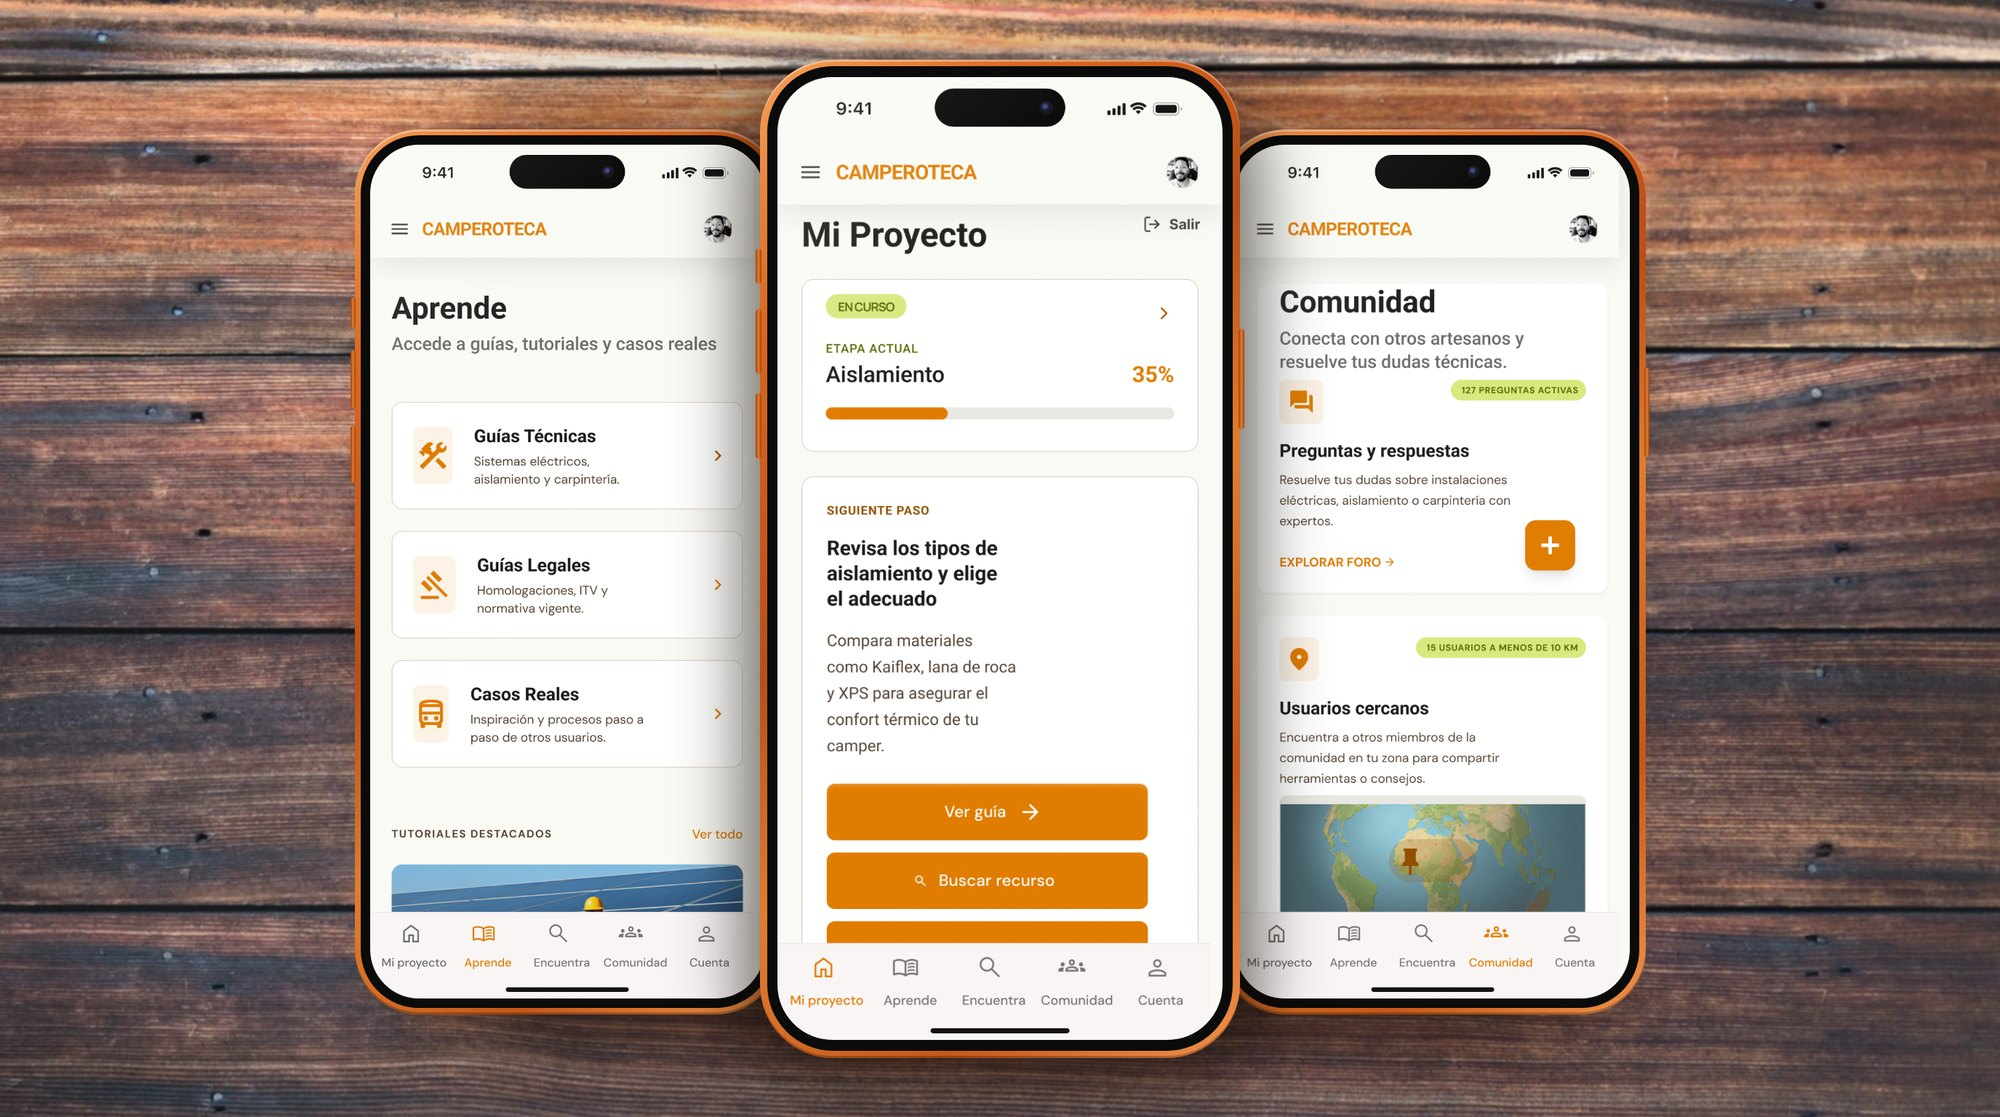
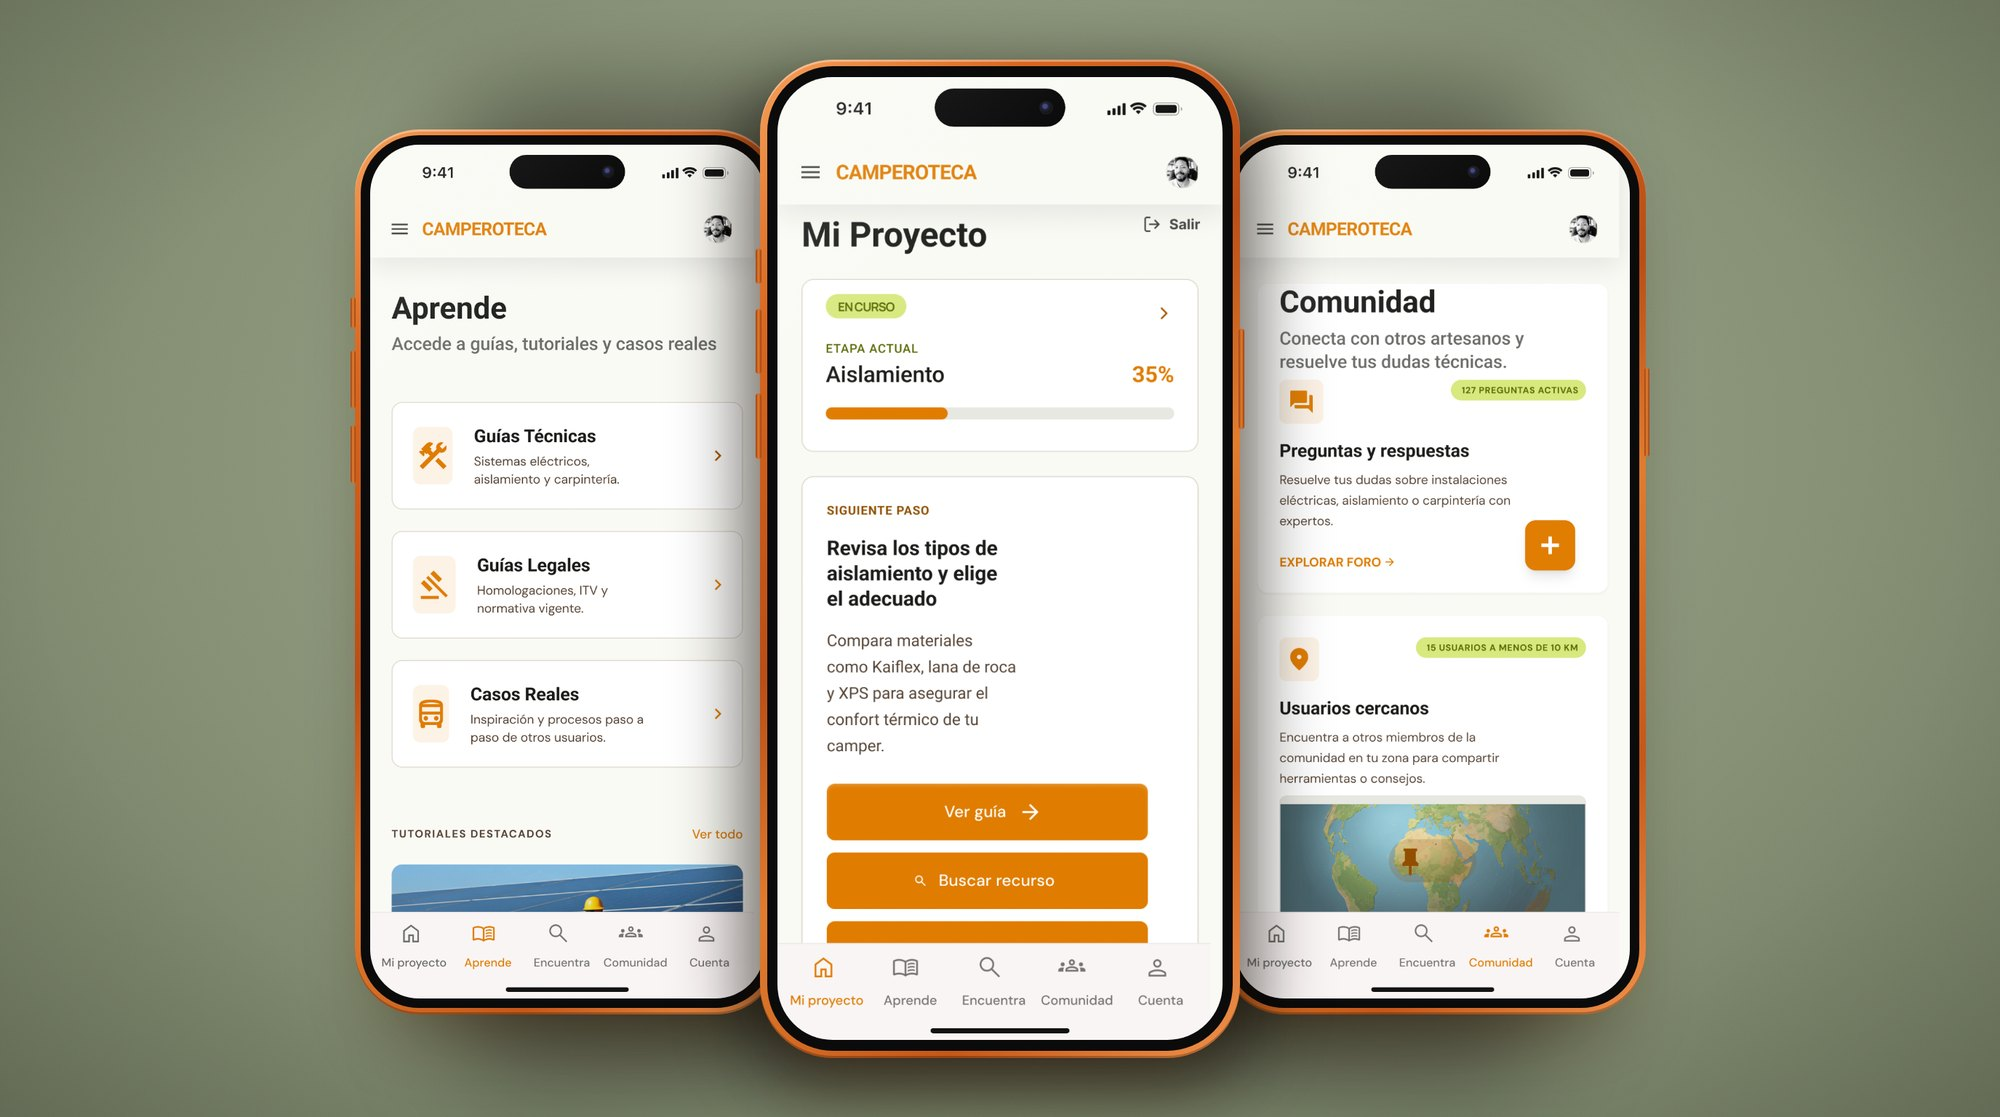
feat(home): portada de Camperoteca con fondo verde salvia
Claude-Session: https://claude.ai/code/session_01BVwbc6KKsV18LtJHByUVY1

diff --git a/lib/i18n.ts b/lib/i18n.ts
@@ -44,7 +44,7 @@ export const t = {
         desc: "Plataforma mobile para acompañar el proceso de camperización paso a paso y conectar a la comunidad para intercambiar materiales, herramientas y conocimiento.",
         year: "2025–26",
         cover: "/assets/camperoteca-cover.jpg",
-        coverAlt: "Tres pantallas de la app Camperoteca (Aprende, Mi Proyecto y Comunidad) sobre madera",
+        coverAlt: "Tres pantallas de la app Camperoteca (Aprende, Mi Proyecto y Comunidad)",
       },
       riptide: {
         tag: "UX/UI · IA · Sostenibilidad · Conceptual",
@@ -99,7 +99,7 @@ export const t = {
         desc: "Mobile platform to guide the van conversion process step by step and connect the community to exchange materials, tools and knowledge.",
         year: "2025–26",
         cover: "/assets/camperoteca-cover.jpg",
-        coverAlt: "Three Camperoteca app screens (Learn, My Project and Community) on wood",
+        coverAlt: "Three Camperoteca app screens (Learn, My Project and Community)",
       },
       riptide: {
         tag: "UX/UI · AI · Sustainability · Conceptual",
@@ -154,7 +154,7 @@ export const t = {
         desc: "Plataforma mobile para acompanhar o processo de camperização passo a passo e conectar a comunidade para trocar materiais, ferramentas e conhecimento.",
         year: "2025–26",
         cover: "/assets/camperoteca-cover.jpg",
-        coverAlt: "Três ecrãs da app Camperoteca (Aprende, O Meu Projeto e Comunidade) sobre madeira",
+        coverAlt: "Três ecrãs da app Camperoteca (Aprende, O Meu Projeto e Comunidade)",
       },
       riptide: {
         tag: "UX/UI · IA · Sustentabilidade · Conceptual",
